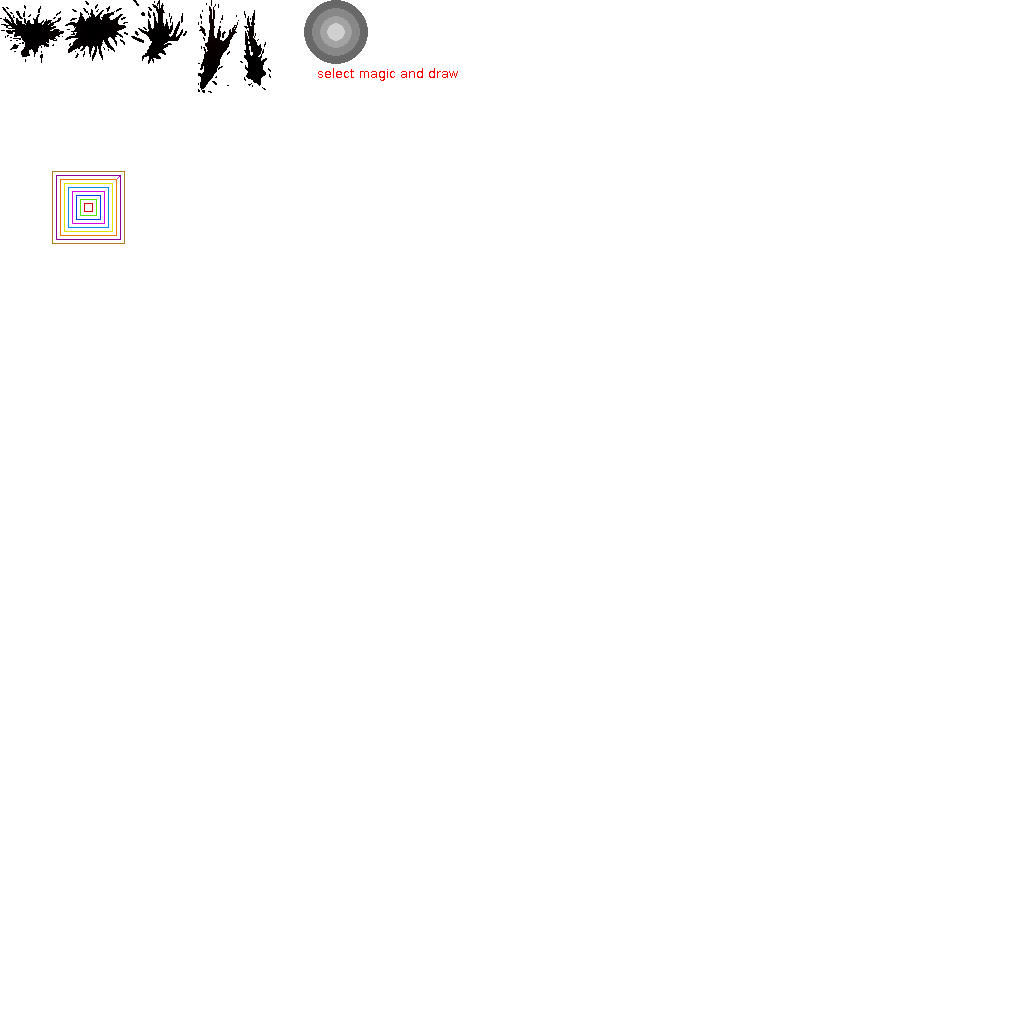
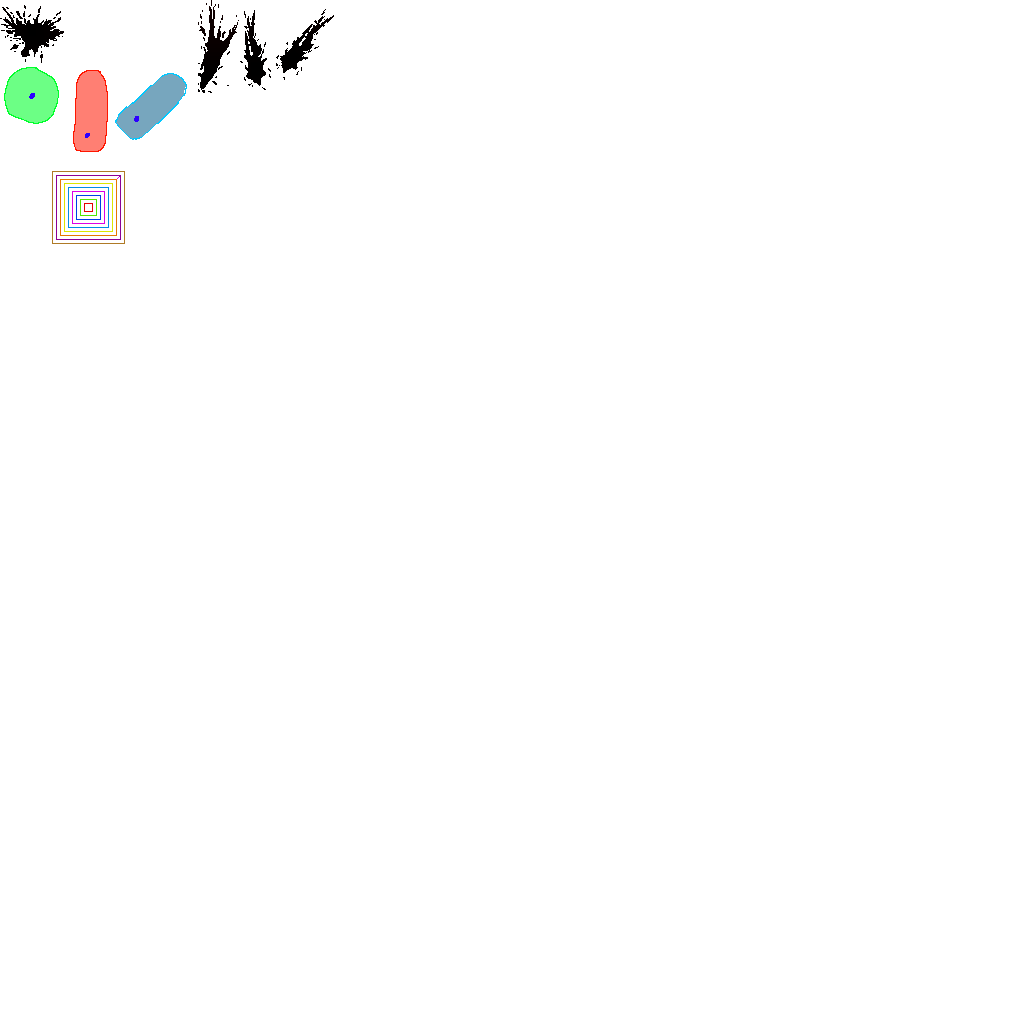
simple blood with radial, up, diagonal

Changed region(s): [[0.0, 0.0, 0.1875, 0.1562], [0.2812, 0.0, 0.375, 0.0625]]

diff --git a/src/common/splat.rs b/src/common/splat.rs
@@ -9,6 +9,8 @@ use crate::{common::death::DeathMarker, databases::splat_db::{SplatDb, SplatType
 #[derive(Component)]
 pub struct SplatOnDeath;
 
+const RAD_45: f32  = std::f32::consts::PI / 4.0;
+const RAD_90: f32 = std::f32::consts::PI / 2.0;
 
 #[derive(Component)]
 pub struct SplatProvider {
@@ -25,12 +27,9 @@ pub fn apply_splat_on_death(
     time: Res<Time>,
     splat_db: Res<SplatDb>
 ) {
-    let RAD_45 = std::f32::consts::PI / 4.0;
-    let RAD_90 = std::f32::consts::PI / 2.0;
-
     for (transform, death_mark) in &emitter_query {
 
-        let splat_rotation = match death_mark.killed_by {
+        let (splat_rot_90, splat_rot_45) = match death_mark.killed_by {
             Some(killed_by) => {
                 if let Ok((killer_transform, splat_provider_opt)) = killer_query.get(killed_by) {
                     let killer_pos = match splat_provider_opt {
@@ -40,17 +39,19 @@ pub fn apply_splat_on_death(
 
                     let splat_emitter_pos = transform.translation();
                     let direction = (splat_emitter_pos - killer_pos).truncate().normalize_or_zero();
-                    let mut angle = direction.y.atan2(direction.x);
-                    angle = (angle / RAD_45).round() * RAD_45;
-                    //let random_offset = rng.gen_range(-RAD_45..RAD_45);
-                    Quat::from_rotation_z(angle - RAD_90)
-                } else { Quat::IDENTITY }
+                    let angle = direction.y.atan2(direction.x);
+                    let snapped_angle_90 = (angle / RAD_90).round() * RAD_90;
+                    let snapped_angle_45 = (((angle - RAD_45) / RAD_90).round() * RAD_90) + RAD_45;
+                    (snapped_angle_90 - RAD_90, snapped_angle_45 - RAD_90)
+                    
+                } else { (0.0, 0.0) }
             },
-            None => Quat::IDENTITY,
+            None => (0.0, 0.0),
         };
 
-        build_splat(&mut commands, &splat_db, &mut materials, &mut meshes, &time, splat_rotation, transform.translation(), SplatType::Radial);
-        build_splat(&mut commands, &splat_db, &mut materials, &mut meshes, &time, splat_rotation, transform.translation(), SplatType::Long);
+        build_splat(&mut commands, &splat_db, &mut materials, &mut meshes, &time, splat_rot_90, transform.translation(), SplatType::Radial);
+        build_splat(&mut commands, &splat_db, &mut materials, &mut meshes, &time, splat_rot_90, transform.translation(), SplatType::Long);
+        build_splat(&mut commands, &splat_db, &mut materials, &mut meshes, &time, splat_rot_45 + RAD_45, transform.translation(), SplatType::Diagonal);
 
 
     }
@@ -62,12 +63,12 @@ pub fn build_splat(
     materials: &mut ResMut<Assets<SplatMaterial>>, 
     meshes: &mut ResMut<Assets<Mesh>>, 
     time: &Res<Time>, 
-    splat_rotation: Quat, 
+    splat_rotation: f32, 
     pos: Vec3,
     splat_type: SplatType
 ) {
     let mut rng = rand::thread_rng();
-
+    let adjusted_rotation = Quat::from_rotation_z(splat_rotation);
     let Some((splat_tex, splat_rect, origin_offset)) = splat_db.random_of_type(splat_type) else { return };
 
     let uv_rect = Vec4::new(splat_rect.min.x / 1024.0, splat_rect.min.y / 1024.0, splat_rect.max.x / 1024.0, splat_rect.max.y / 1024.0);
@@ -79,14 +80,14 @@ pub fn build_splat(
         brightness: rng.gen_range(0.8..1.2)
     });
     let mesh = meshes.add(Mesh::from(Rectangle::default()));
-    let translation = pos - (splat_rotation * origin_offset.extend(0.0));
+    let translation = pos - (adjusted_rotation * origin_offset.extend(0.0));
     commands.spawn((
         Mesh2d(mesh),
         MeshMaterial2d(splat_mat),
         Transform { 
             translation: translation.with_z(-10.0), 
             scale: Vec3::new(splat_rect.width(), splat_rect.height(), 1.0),
-            rotation: splat_rotation,
+            rotation: adjusted_rotation,
             ..default()
         },
     ));

diff --git a/src/databases/splat_db.rs b/src/databases/splat_db.rs
@@ -1,6 +1,6 @@
 
-use bevy::{image::{ImageLoaderSettings, ImageSampler}, prelude::*, render::render_resource::{Extent3d, TextureFormat}};
-use rand::{rngs::ThreadRng, seq::SliceRandom, thread_rng, Rng};
+use bevy::{image::ImageLoaderSettings, prelude::*};
+use rand::{seq::SliceRandom, thread_rng, Rng};
 
 
 #[derive(Resource)]
@@ -31,19 +31,15 @@ impl SplatDb {
 struct SplatEntry {
     pub rect: Rect,
     pub splat_type: SplatType,
-    pub splat_direction: SplatDirection,
-    pub splat_size: SplatSize,
     pub origin_offset: Vec2
 }
 
 impl SplatEntry {
-    pub fn new(rect: Rect, splat_type: SplatType, direction: SplatDirection, origin_offset: Vec2, size: SplatSize) -> Self {
+    pub fn new(rect: Rect, splat_type: SplatType, origin_offset: Vec2) -> Self {
         return Self {
             rect,
             splat_type,
-            splat_direction: direction,
             origin_offset,
-            splat_size: size
         };
     }
 }
@@ -51,21 +47,7 @@ impl SplatEntry {
 pub enum SplatType {
     Radial,
     Long,
-    Wide
-}
-
-enum SplatSize {
-    Small,
-    Large
-}
-
-enum SplatDirection {
-    Up,
-    Down,
-    DiagonalUp,
-    DiagonalDown,
-    UpAndDiagonal,
-    DownAndDiagonal
+    Diagonal
 }
 
 
@@ -78,11 +60,16 @@ pub fn init_splat_db(
     });
 
     let entries = vec![
-        SplatEntry::new(Rect::new(0.0, 0.0, 64.0, 64.0), SplatType::Radial, SplatDirection::UpAndDiagonal, Vec2::ZERO, SplatSize::Large),
-        SplatEntry::new(Rect::new(64.0, 0.0, 128.0, 64.0), SplatType::Radial, SplatDirection::UpAndDiagonal, Vec2::ZERO, SplatSize::Large),
-        //SplatEntry::new(Rect::new(128.0, 0.0, 192.0, 64.0), SplatType::Long, SplatDirection::Up),
-        SplatEntry::new(Rect::new(192.0, 0.0, 240.0, 96.0), SplatType::Long, SplatDirection::Up, Vec2::new(-8.0, -24.0), SplatSize::Large),
-        SplatEntry::new(Rect::new(240.0, 0.0, 272.0, 96.0), SplatType::Long, SplatDirection::Up, Vec2::new(0.0, -24.0), SplatSize::Large),
+        SplatEntry::new(Rect::new(0.0, 0.0, 64.0, 64.0), SplatType::Radial, Vec2::ZERO),
+        SplatEntry::new(Rect::new(192.0, 0.0, 240.0, 96.0), SplatType::Long, Vec2::new(-8.0, -24.0)),
+        SplatEntry::new(Rect::new(240.0, 0.0, 272.0, 96.0), SplatType::Long, Vec2::new(0.0, -24.0)),
+        SplatEntry::new(Rect::new(272.0, 0.0, 336.0, 80.0), SplatType::Diagonal, Vec2::new(-16.0, -24.0)),
+    ];
+
+    let test_entries = vec![
+        SplatEntry::new(Rect::new(0.0, 64.0, 64.0, 128.0), SplatType::Radial, Vec2::ZERO),
+        SplatEntry::new(Rect::new(64.0, 64.0, 112.0, 160.0), SplatType::Long, Vec2::new(0.0, -24.0)),
+        SplatEntry::new(Rect::new(112.0, 64.0, 192.0, 144.0), SplatType::Diagonal, Vec2::new(-16.0, -16.0)),
     ];
 
     commands.insert_resource(SplatDb {

diff --git a/src/main_menu/mod.rs b/src/main_menu/mod.rs
@@ -53,8 +53,8 @@ pub fn try_enter_stage_editor(
 ) {
     if input.just_released(KeyCode::KeyE) {
         commands.insert_resource(StageEditorLoadDetails {
-            template_stage_id: 8.into(),
-            new_stage_id: 8,
+            template_stage_id: 1.into(),
+            new_stage_id: 9,
             template_stage_handle: None
         });
         app_state.set(AppState::StageEditor);
